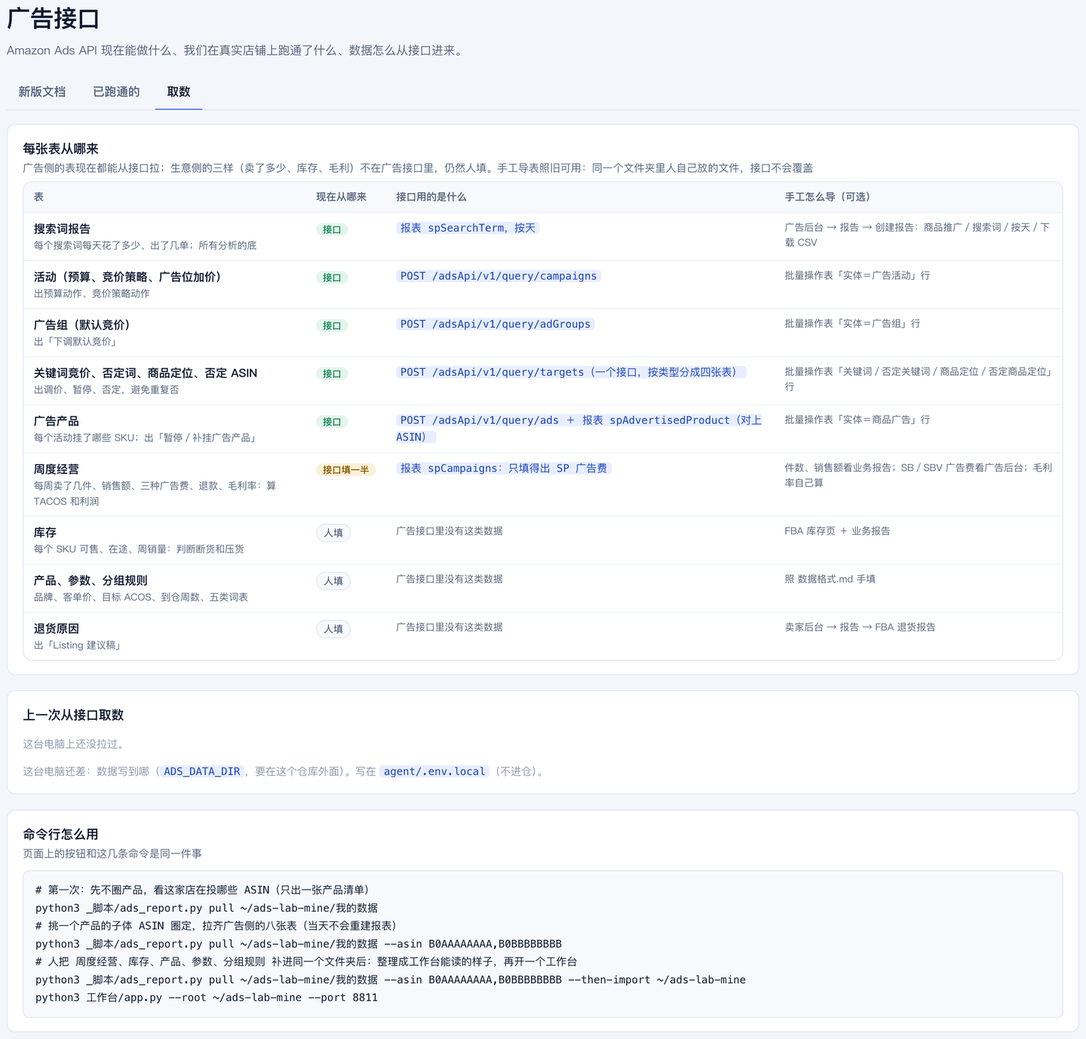
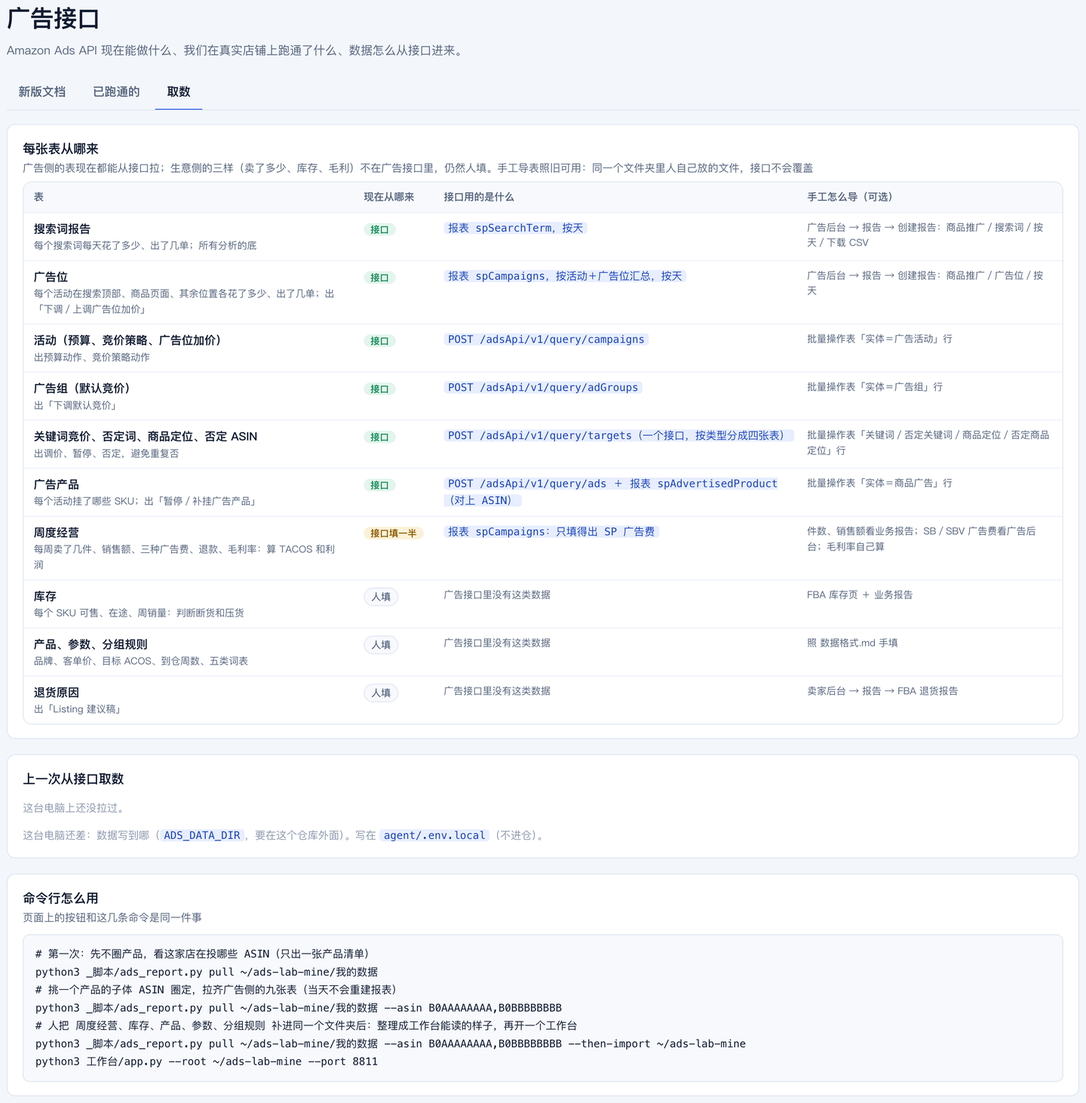
广告位: 接上按广告位汇总的报表, 出「下调／上调广告位加价」 @Claude Code
- 取数多拉一份报表（spCampaigns 按 活动＋广告位 汇总）→ 广告位.csv；导入脚本认这张表
- 规则：加价折到出价上算，和竞价共用单次调幅。有加价、点击够数却 0 单或超盈亏线 → 下调（到 0 为止）；
  ACOS 不到目标六成且订单够数 → 上调（有上限）。没有报表时照旧只提醒「广告位待补数据」
- 出了广告位动作，验证器多一条；批量上传表多 Placement、Percentage 两列；
  接口请求把活动所有位置的加价一起带上（只预演，没真实发过）
- 口径新增两个暂定值；技能包 ads-bid-budget 同步；取数缓存按份算
- 仓库自带演示数据没有广告位报表，演示动作数不变（89 条、验证器 9 条）
- 2026-11-12 美国站真实实测四份报表走通（只读）；测试 107 通过，评测 56/56

diff --git a/实操手册.html b/实操手册.html
@@ -55,7 +55,9 @@ img.shot{display:block;width:100%;border:1px solid var(--line);border-radius:8px
 <tr><td>库存.csv</td><td>手填，每行一个 SKU：可售、上周销量（FBA 库存页、业务报告）</td><td>必需</td></tr>
 <tr><td>产品.json、参数.json、分组规则.json</td><td>第 11、12 步做</td><td>必需</td></tr>
 <tr><td>活动.csv／关键词竞价.csv／否定词.csv／广告产品.csv／退货.csv</td><td>广告后台批量操作导出、广告产品报告、退货报告；没有就少几类动作</td><td>可选</td></tr>
-<tr><td>广告组.csv／商品定位.csv／否定ASIN.csv，以及 活动.csv 里的竞价策略、广告位加价列</td><td>广告后台 → 批量操作 → 下载批量表；没有就出不了「改竞价策略」「下调默认竞价」「ASIN／类目定位调价」「否定 ASIN」，「广告活动」页里对应那一块会写「没给这张表」</td><td>可选</td></tr></table><div class="say"><span class="lab">对 Codex 说</span><button onclick="cp(this)">复制</button><pre>看一下 我的数据/ 里的文件：每个多少行、有哪些列；搜索词报告的时间从哪天到哪天、涉及几个广告活动。先别分析，也别改文件。</pre></div><p class="see"><span class="lab">应该看到</span>行数、列名、时间范围。<b>先确认周期完整</b>：至少 3 周，建议 4 周以上；最近 3 天归因没满，订单会偏少。</p><details><summary>卡住了</summary><p>近 4 周点击不到 300 次：换一个量大的产品。搜索词报告只有汇总没有按天：重新导一份「每日」的。</p></details></div></section><section class="step"><div class="no">11</div><div class="c"><h3>你亲手填：目标与约束<span class="tm">约 10 分钟</span></h3><p>必须人填。AI 看得到报表，看不到你为什么这么投。</p><div class="say"><span class="lab">对 Codex 说</span><button onclick="cp(this)">复制</button><pre>一项一项问我，我答你记，写成 我的数据/参数.json 和 我的数据/产品.json（格式照 我的数据-示例/）：目标 ACOS 是多少；广告前毛利率（盈亏线）是多少；现在是新品期、成长期还是成熟期；补货到仓还要几周；哪个活动是精确、哪个是词组、哪个是广泛；品牌名；客单价。另外把我这个品的「不能动的」记一页纸：哪些词是防守词、哪些活动是有意为之。</pre></div><p class="see"><span class="lab">应该看到</span>两个 json 加一页纸，全是你的话。</p><details><summary>卡住了</summary><p>不知道盈亏线：售价减去采购、头程、佣金、FBA 费，再除以售价。分不清哪个活动是精确：看报表「匹配类型」一列，哪个活动全是精确匹配。</p></details></div></section><section class="step"><div class="no">12</div><div class="c"><h3>写你这个品类的分组规则<span class="tm">约 20 分钟</span></h3><p>每个品类做一次。示例的规则在 <code>分组规则.json</code>，五类词表都是正则，<b>不许照抄——那是另一个品类的词</b>。</p><div class="say"><span class="lab">对 Codex 说</span><button onclick="cp(this)">复制</button><pre>照 ~/ads-lab/分组规则.json 的结构给我的品类做一份，存到 我的数据/分组规则.json。先把我搜索词报告里花费前 80 的搜索词读一遍，给我一份候选：哪些是核心大词、哪些是属性长尾、哪些是竞品品牌、哪些是跑偏（需求不同）、哪些是泛词（没有购买意图）。每一类列 10 个例子让我确认，我改完你再写正则。写完用前 80 个词试分一遍，把拿不准的 10 个列出来让我定。</pre></div><p class="see"><span class="lab">应该看到</span>它停下来让你定；试分后「拿不准的 10 个词」由你一条条判，判完它改规则再试。</p><details><summary>卡住了</summary><p>它想用示例的词表：叫停。它把没有购买意图的词也归进核心词：让它先解释 INTENT 这一类是干什么的，再改。</p></details></div></section><section class="step"><div class="no">13</div><div class="c"><h3>导入，起一个你自己的工作台<span class="tm">约 10 分钟</span></h3><div class="say"><span class="lab">对 Codex 说</span><button onclick="cp(this)">复制</button><pre>用 python3 _脚本/import_my_data.py 我的数据 ~/ads-lab-mine 导入，把它打印的「列对应」「导入了多少」「窗口」原样念给我。然后用 python3 工作台/app.py --root ~/ads-lab-mine --port 8811 再起一个工作台，告诉我地址。示例那个 8810 不要关。</pre></div><p class="see"><span class="lab">应该看到</span>列对应表里八个必需列都对上了；周度经营几周、库存几个 SKU、可选表各多少条；窗口是报表最后 28 天。浏览器开 <code>http://localhost:8811</code>，看到的是你自己的店名和产品名，状态「待处理」。「设置」页的「数据从哪来」里，你给了的表是绿色「已有」。</p><details><summary>卡住了</summary><p>认不出列：按它打印出来的表头改列名（中文）再来。参数里的活动名不在报表里：照它列出的名字改，一个字都不能差。报「至少要 3 周」：回后台重导。</p></details></div></section><section class="step"><div class="no">14</div><div class="c"><h3>跑第一圈，先看大盘，再改规则<span class="tm">约 10 分钟</span></h3><div class="say do"><span class="lab">在工作台上做</span><pre>在 8811 页面点「跑第一圈」。回到首页后先看「这周的结论」，再到「广告活动」页扫一遍每个活动的花费和 ACOS。</pre></div><div class="say"><span class="lab">对 Codex 说</span><button onclick="cp(this)">复制</button><pre>读 ~/ads-lab-mine/广告闭环/输出/数字.json，把三件事念给我听：分组账（每组花费、占比、ACOS）；同一个词被几个活动同时买的花费占比；头部四个词各花在哪些活动。然后打开 分组明细-近14天-请人工纠错.csv，把花费前 30 的词和它的分组列给我看，我来挑分错的。</pre></div><p class="see"><span class="lab">应该看到</span>你逐条判分错的词，让它改 我的数据/分组规则.json，重新导入到同一个目录，在首页「改目标」里点「原样再触发」再「跑一圈」：第 2 格写「输入变了（规则版本…）→ 重跑」。分组对了，结论和原因才可信。</p><details><summary>卡住了</summary><p>「原因」页最下面「分析时还缺的数据」很长：正常，可选表没给的部分它都会写成缺。</p></details></div></section><section class="step"><div class="no">15</div><div class="c"><h3>摆选项，你来选<span class="tm">约 5 分钟</span></h3><div class="say"><span class="lab">对 Codex 说</span><button onclick="cp(this)">复制</button><pre>基于 ~/ads-lab-mine 这一轮的事实和我的目标与约束，给 3–5 个可选动作。每个写清：什么时候该选、代价折成钱是多少、可逆吗。不要替我选。</pre></div><div class="say do"><span class="lab">在工作台上做</span><pre>你口头选，并说一句为什么。到「原因」页的对策列，勾出你的取舍，点「按这个取舍重新生成」，首页会出现「待重跑」，点「跑一圈」。</pre></div><p class="see"><span class="lab">应该看到</span>第 2 格写「输入变了（取舍项…）」；「行动」里只剩你选的那几条对策的动作。</p></div></section><section class="step"><div class="no">16</div><div class="c"><h3>当一回运营，按通道导出<span class="tm">约 10 分钟</span></h3><div class="say do"><span class="lab">在工作台上做</span><pre>在「行动」的「待你决定」里一类一类过：信得过的点「按建议全部通过」，拿不准的逐条看，驳回写理由。做完到「待执行」，点右上角「导出全部已通过」；Listing 建议稿和到仓日查证，各自在它那一类里导出清单。</pre></div><div class="say"><span class="lab">对 Codex 说</span><button onclick="cp(this)">复制</button><pre>打开我导出的批量上传表，按 Entity 分成三段念给我：Product Ad（SKU、State）、Keyword／Negative Keyword（Keyword Text、Match Type、Bid、State）、Campaign（Daily Budget）。核对每一行的 Campaign ID 和 Ad Group ID 都不为空；哪一行为空就标出来——那是我导入时缺了对应的表。</pre></div><p class="see"><span class="lab">应该看到</span>三段清单，ID 齐全。<b>上传广告后台这一步，永远是人做</b>：广告后台 → 批量操作 → 上传。传完回到「待执行」，把上传过的动作点「标为已执行」。</p><details><summary>卡住了</summary><p>清单里有一条你后来觉得不对：在「待执行」里点「撤回」，它就不会进下一次导出。</p></details></div></section><section class="step"><div class="no">17</div><div class="c"><h3>到日子，人来复盘<span class="tm">约 10 分钟</span></h3><p>这一步没有 AI 替你判断。到复盘日，首页会出现一条「到期看结果」：</p><div class="say do"><span class="lab">在工作台上做</span><pre>1. 从后台重新导一份包含最近一周的搜索词报告，覆盖 我的数据/搜索词报告.csv；周度经营.csv 加一行；库存.csv 更新可售和上周销量。
+<tr><td>广告组.csv／商品定位.csv／否定ASIN.csv，以及 活动.csv 里的竞价策略、广告位加价列</td><td>广告后台 → 批量操作 → 下载批量表；没有就出不了「改竞价策略」「下调默认竞价」「ASIN／类目定位调价」「否定 ASIN」，「广告活动」页里对应那一块会写「没给这张表」</td><td>可选</td></tr>
+<tr><td>广告位.csv</td><td>广告后台 → 报告 → 商品推广／广告位／按天；没有就出不了「下调／上调广告位加价」，只提醒「广告位待补数据」</td><td>可选</td></tr>
+<tr><td colspan="3">广告侧的这些表（搜索词报告、广告位、活动、广告组、关键词竞价、否定词、广告产品、商品定位、否定 ASIN）也可以不手工导，直接从广告接口拉：见 数据格式.md 开头，或页面「广告接口 → 取数」。周度经营、库存、产品、参数、分组规则仍然手填。</td></tr></table><div class="say"><span class="lab">对 Codex 说</span><button onclick="cp(this)">复制</button><pre>看一下 我的数据/ 里的文件：每个多少行、有哪些列；搜索词报告的时间从哪天到哪天、涉及几个广告活动。先别分析，也别改文件。</pre></div><p class="see"><span class="lab">应该看到</span>行数、列名、时间范围。<b>先确认周期完整</b>：至少 3 周，建议 4 周以上；最近 3 天归因没满，订单会偏少。</p><details><summary>卡住了</summary><p>近 4 周点击不到 300 次：换一个量大的产品。搜索词报告只有汇总没有按天：重新导一份「每日」的。</p></details></div></section><section class="step"><div class="no">11</div><div class="c"><h3>你亲手填：目标与约束<span class="tm">约 10 分钟</span></h3><p>必须人填。AI 看得到报表，看不到你为什么这么投。</p><div class="say"><span class="lab">对 Codex 说</span><button onclick="cp(this)">复制</button><pre>一项一项问我，我答你记，写成 我的数据/参数.json 和 我的数据/产品.json（格式照 我的数据-示例/）：目标 ACOS 是多少；广告前毛利率（盈亏线）是多少；现在是新品期、成长期还是成熟期；补货到仓还要几周；哪个活动是精确、哪个是词组、哪个是广泛；品牌名；客单价。另外把我这个品的「不能动的」记一页纸：哪些词是防守词、哪些活动是有意为之。</pre></div><p class="see"><span class="lab">应该看到</span>两个 json 加一页纸，全是你的话。</p><details><summary>卡住了</summary><p>不知道盈亏线：售价减去采购、头程、佣金、FBA 费，再除以售价。分不清哪个活动是精确：看报表「匹配类型」一列，哪个活动全是精确匹配。</p></details></div></section><section class="step"><div class="no">12</div><div class="c"><h3>写你这个品类的分组规则<span class="tm">约 20 分钟</span></h3><p>每个品类做一次。示例的规则在 <code>分组规则.json</code>，五类词表都是正则，<b>不许照抄——那是另一个品类的词</b>。</p><div class="say"><span class="lab">对 Codex 说</span><button onclick="cp(this)">复制</button><pre>照 ~/ads-lab/分组规则.json 的结构给我的品类做一份，存到 我的数据/分组规则.json。先把我搜索词报告里花费前 80 的搜索词读一遍，给我一份候选：哪些是核心大词、哪些是属性长尾、哪些是竞品品牌、哪些是跑偏（需求不同）、哪些是泛词（没有购买意图）。每一类列 10 个例子让我确认，我改完你再写正则。写完用前 80 个词试分一遍，把拿不准的 10 个列出来让我定。</pre></div><p class="see"><span class="lab">应该看到</span>它停下来让你定；试分后「拿不准的 10 个词」由你一条条判，判完它改规则再试。</p><details><summary>卡住了</summary><p>它想用示例的词表：叫停。它把没有购买意图的词也归进核心词：让它先解释 INTENT 这一类是干什么的，再改。</p></details></div></section><section class="step"><div class="no">13</div><div class="c"><h3>导入，起一个你自己的工作台<span class="tm">约 10 分钟</span></h3><div class="say"><span class="lab">对 Codex 说</span><button onclick="cp(this)">复制</button><pre>用 python3 _脚本/import_my_data.py 我的数据 ~/ads-lab-mine 导入，把它打印的「列对应」「导入了多少」「窗口」原样念给我。然后用 python3 工作台/app.py --root ~/ads-lab-mine --port 8811 再起一个工作台，告诉我地址。示例那个 8810 不要关。</pre></div><p class="see"><span class="lab">应该看到</span>列对应表里八个必需列都对上了；周度经营几周、库存几个 SKU、可选表各多少条；窗口是报表最后 28 天。浏览器开 <code>http://localhost:8811</code>，看到的是你自己的店名和产品名，状态「待处理」。「设置」页的「数据从哪来」里，你给了的表是绿色「已有」。</p><details><summary>卡住了</summary><p>认不出列：按它打印出来的表头改列名（中文）再来。参数里的活动名不在报表里：照它列出的名字改，一个字都不能差。报「至少要 3 周」：回后台重导。</p></details></div></section><section class="step"><div class="no">14</div><div class="c"><h3>跑第一圈，先看大盘，再改规则<span class="tm">约 10 分钟</span></h3><div class="say do"><span class="lab">在工作台上做</span><pre>在 8811 页面点「跑第一圈」。回到首页后先看「这周的结论」，再到「广告活动」页扫一遍每个活动的花费和 ACOS。</pre></div><div class="say"><span class="lab">对 Codex 说</span><button onclick="cp(this)">复制</button><pre>读 ~/ads-lab-mine/广告闭环/输出/数字.json，把三件事念给我听：分组账（每组花费、占比、ACOS）；同一个词被几个活动同时买的花费占比；头部四个词各花在哪些活动。然后打开 分组明细-近14天-请人工纠错.csv，把花费前 30 的词和它的分组列给我看，我来挑分错的。</pre></div><p class="see"><span class="lab">应该看到</span>你逐条判分错的词，让它改 我的数据/分组规则.json，重新导入到同一个目录，在首页「改目标」里点「原样再触发」再「跑一圈」：第 2 格写「输入变了（规则版本…）→ 重跑」。分组对了，结论和原因才可信。</p><details><summary>卡住了</summary><p>「原因」页最下面「分析时还缺的数据」很长：正常，可选表没给的部分它都会写成缺。</p></details></div></section><section class="step"><div class="no">15</div><div class="c"><h3>摆选项，你来选<span class="tm">约 5 分钟</span></h3><div class="say"><span class="lab">对 Codex 说</span><button onclick="cp(this)">复制</button><pre>基于 ~/ads-lab-mine 这一轮的事实和我的目标与约束，给 3–5 个可选动作。每个写清：什么时候该选、代价折成钱是多少、可逆吗。不要替我选。</pre></div><div class="say do"><span class="lab">在工作台上做</span><pre>你口头选，并说一句为什么。到「原因」页的对策列，勾出你的取舍，点「按这个取舍重新生成」，首页会出现「待重跑」，点「跑一圈」。</pre></div><p class="see"><span class="lab">应该看到</span>第 2 格写「输入变了（取舍项…）」；「行动」里只剩你选的那几条对策的动作。</p></div></section><section class="step"><div class="no">16</div><div class="c"><h3>当一回运营，按通道导出<span class="tm">约 10 分钟</span></h3><div class="say do"><span class="lab">在工作台上做</span><pre>在「行动」的「待你决定」里一类一类过：信得过的点「按建议全部通过」，拿不准的逐条看，驳回写理由。做完到「待执行」，点右上角「导出全部已通过」；Listing 建议稿和到仓日查证，各自在它那一类里导出清单。</pre></div><div class="say"><span class="lab">对 Codex 说</span><button onclick="cp(this)">复制</button><pre>打开我导出的批量上传表，按 Entity 分成三段念给我：Product Ad（SKU、State）、Keyword／Negative Keyword（Keyword Text、Match Type、Bid、State）、Campaign（Daily Budget）。核对每一行的 Campaign ID 和 Ad Group ID 都不为空；哪一行为空就标出来——那是我导入时缺了对应的表。</pre></div><p class="see"><span class="lab">应该看到</span>三段清单，ID 齐全。<b>上传广告后台这一步，永远是人做</b>：广告后台 → 批量操作 → 上传。传完回到「待执行」，把上传过的动作点「标为已执行」。</p><details><summary>卡住了</summary><p>清单里有一条你后来觉得不对：在「待执行」里点「撤回」，它就不会进下一次导出。</p></details></div></section><section class="step"><div class="no">17</div><div class="c"><h3>到日子，人来复盘<span class="tm">约 10 分钟</span></h3><p>这一步没有 AI 替你判断。到复盘日，首页会出现一条「到期看结果」：</p><div class="say do"><span class="lab">在工作台上做</span><pre>1. 从后台重新导一份包含最近一周的搜索词报告，覆盖 我的数据/搜索词报告.csv；周度经营.csv 加一行；库存.csv 更新可售和上周销量。
 2. 重新导入到同一个目录，首页「改目标」里点「原样再触发」→「跑一圈」。
 3. 到「行动」的「等验证」，把结果对得上的动作点「下周已验证」。</pre></div><p class="see"><span class="lab">应该看到</span>第 1 格读回了你「已执行」的动作；第 2 格写「输入变了（数据窗口：…）→ 重跑」；首页的指标卡和结论换成新一周的数。每一类行动详情里「怎么算成功」写的那几样，你逐项对：到仓日、补挂款的转化、精确组占比、CPC、竞品词 ACOS。</p><div class="say"><span class="lab">对 Codex 说</span><button onclick="cp(this)">复制</button><pre>把 ~/ads-lab-mine/广告闭环/行动卡/ 里上一张卡的第 9 格，和这一圈 输出/数字.json 里对应的数逐项对照，列成表：指标、当时说要看的线、现在的值、过没过。过不了的，先问是动作没执行、执行了没效、还是外部变了，分开写。</pre></div><p class="see"><span class="lab">应该看到</span>一张对照表。<b>跑过两圈、第 9 格逐项对过、有验证结论的，才算数字员工。</b></p></div></section>
 

diff --git a/tests/test_ads_report.py b/tests/test_ads_report.py
@@ -45,7 +45,9 @@ def world():
     by = {}
     for t in term: by[(t["date"], t["campaignId"], t["campaignName"])] = by.get((t["date"], t["campaignId"], t["campaignName"]), 0) + t["cost"]
     camp = [{"date": d, "campaignId": c, "campaignName": n, "cost": round(v, 2)} for (d, c, n), v in by.items()]
-    return {"campaigns": camps, "adGroups": groups, "targets": T, "ads": ads, "搜索词": term, "广告产品": adp, "活动": camp, "end": days[-1], "cid": cid}
+    place = [{"date": d, "campaignId": c, "campaignName": n, "placementClassification": pc, "impressions": 100, "clicks": 10, "cost": round(v * share, 2), "sales7d": round(v * share * 3, 2), "purchases7d": 1}
+             for (d, c, n), v in by.items() for pc, share in (("Top of Search on-Amazon", 0.5), ("Detail Page on-Amazon", 0.3), ("Other on-Amazon", 0.2))]
+    return {"campaigns": camps, "adGroups": groups, "targets": T, "ads": ads, "搜索词": term, "广告产品": adp, "活动": camp, "广告位": place, "end": days[-1], "cid": cid}
 
 
 W = world()
@@ -62,11 +64,12 @@ class Fake:
         method, path = args[1], args[2]; body = json.loads(args[args.index("--body") + 1]) if "--body" in args else None
         if path.endswith("/v2/profiles"): return [{"profileId": 9, "countryCode": "US", "currencyCode": "USD", "accountInfo": {"type": "seller"}}]
         if path.endswith("/reporting/reports") and method == "POST":
-            t = body["configuration"]["reportTypeId"]; rid = {"spSearchTerm": "11111111-1111-4111-8111-111111111111", "spAdvertisedProduct": "22222222-2222-4222-8222-222222222222", "spCampaigns": "33333333-3333-4333-8333-333333333333"}[t]
+            t = body["configuration"]["reportTypeId"] + ("/placement" if "campaignPlacement" in body["configuration"]["groupBy"] else "")
+            rid = {"spSearchTerm": "11111111-1111-4111-8111-111111111111", "spAdvertisedProduct": "22222222-2222-4222-8222-222222222222", "spCampaigns": "33333333-3333-4333-8333-333333333333", "spCampaigns/placement": "44444444-4444-4444-8444-444444444444"}[t]
             if self.dup: raise A.AdsError("接口回了业务错误：The Request is a duplicate of : " + rid)
             return {"reportId": rid, "status": "PENDING"}
         if "/reporting/reports/" in path and method == "GET":
-            self.polls += 1; rid = path.rsplit("/", 1)[1]; name = {"1": "搜索词", "2": "广告产品", "3": "活动"}[rid[0]]
+            self.polls += 1; rid = path.rsplit("/", 1)[1]; name = {"1": "搜索词", "2": "广告产品", "3": "活动", "4": "广告位"}[rid[0]]
             if self.fail == name: return {"reportId": rid, "status": "FAILED", "failureReason": "报表类型不支持这个列"}
             if self.polls <= self.slow: return {"reportId": rid, "status": "PROCESSING"}
             return {"reportId": rid, "status": "COMPLETED", "url": "https://example.invalid/" + name}
@@ -97,7 +100,7 @@ class 取数(unittest.TestCase):
     def test_没圈产品_只出产品清单_不读结构(self):
         d, f, _ = pull(self.out)
         self.assertFalse(d["ok"]); self.assertFalse(d["圈定"]); self.assertEqual([x["名"] for x in d["文件"]], ["接口-产品清单.csv"])
-        self.assertEqual(f.n("POST", "/reporting/reports"), 3); self.assertEqual(f.n("POST", "/query/"), 0); self.assertEqual(f.writes(), [])
+        self.assertEqual(f.n("POST", "/reporting/reports"), 4); self.assertEqual(f.n("POST", "/query/"), 0); self.assertEqual(f.writes(), [])
         h = json.loads(f.log[3][f.log[3].index("--headers") + 1]); self.assertEqual(h["Content-Type"], R.CT); self.assertEqual(h["Amazon-Advertising-API-Scope"], "9")
         self.assertIn("/proxy/na/reporting/reports", f.log[3][2]); self.assertNotIn("adsApi", f.log[3][2])
 
@@ -108,7 +111,8 @@ class 取数(unittest.TestCase):
         self.assertTrue(d["ok"], d["步骤"]); got = {x["名"]: x["行数"] for x in d["文件"] if x["来源"] == "接口"}
         for name, src in (("活动.csv", "活动.csv"), ("广告组.csv", "广告组.csv"), ("关键词竞价.csv", "关键词竞价.csv"), ("否定词.csv", "否定词.csv"), ("广告产品.csv", "广告产品.csv"), ("商品定位.csv", "商品定位.csv"), ("否定ASIN.csv", "否定ASIN.csv")):
             self.assertEqual(got[name], len(rd(src)) if name != "活动.csv" else got[name], name)
-        self.assertEqual(got["搜索词报告.csv"], len(W["搜索词"]))
+        self.assertEqual(got["搜索词报告.csv"], len(W["搜索词"])); self.assertEqual(got["广告位.csv"], len(W["广告位"]))
+        self.assertEqual({r[2] for r in self.rows("广告位.csv")[1:]}, {"搜索顶部", "商品页面", "其余位置"})
         kw = self.rows("关键词竞价.csv"); self.assertNotIn("已归档的词", [r[1] for r in kw]); self.assertEqual(kw[0], ["广告活动", "关键词", "匹配类型", "竞价", "状态"])
         tg = {r[2] for r in self.rows("商品定位.csv")[1:]}; self.assertTrue({"close-match", "loose-match"} & tg)
         act = {r[0]: r for r in self.rows("活动.csv")[1:]}; self.assertEqual((act["自动-主"][2], act["自动-主"][4]), ("自动", "50")); self.assertEqual(act["词组主干"][1], "188.0")
@@ -125,6 +129,8 @@ class 取数(unittest.TestCase):
         self.assertEqual(len(x), len(y))
         for c in ("广告花费", "广告销售额", "广告点击量", "广告订单量", "广告曝光量"): self.assertAlmostEqual(float(x[c].sum()), float(y[c].sum()), places=2, msg=c)
         self.assertEqual(sorted(x["匹配类型"].unique()), sorted(y["匹配类型"].unique()))
+        pl = pd.read_pickle(f"{a}/_原始拉取/报表-adPlacementReport-0.pkl"); self.assertEqual(sorted(pl["广告位"].unique()), ["placementProductPage", "placementRestOfSearch", "placementTop"])
+        self.assertAlmostEqual(float(pl["广告花费"].sum()), float(x["广告花费"].sum()), delta=len(pl) * 0.01); self.assertFalse(os.path.exists(f"{b}/_原始拉取/报表-adPlacementReport-0.pkl"))   # 手工那份没放广告位表
         for name in ("本父体-spKeyword.json", "本父体-spNeKeyword.json", "本父体-spGroup.json", "本父体-spTarget.json", "本父体-spNeTarget.json", "基础-spAdProduct-全店.json"):
             ja, jb = (R.jread(f"{d}/_原始拉取/{name}") for d in (a, b)); self.assertEqual(len(ja), len(jb), name)
         ka, kb = (sorted((k["keywordText"], k["matchType"], k["bid"], k["state"]) for k in R.jread(f"{d}/_原始拉取/本父体-spKeyword.json")) for d in (a, b)); self.assertEqual(ka, kb)
@@ -140,9 +146,9 @@ class 取数(unittest.TestCase):
 
     def test_报表没生成完_先停_下次接着取不重建(self):
         f = Fake(slow=99); d, _, root = pull(self.out, f, like="主干", wait=120, every=60)
-        self.assertFalse(d["ok"]); self.assertEqual(len(d["还在生成"]), 3); self.assertTrue(os.path.exists(os.path.join(self.out, ".接口任务.json"))); self.assertEqual(f.n("POST", "/reporting/reports"), 3)
+        self.assertFalse(d["ok"]); self.assertEqual(len(d["还在生成"]), 4); self.assertTrue(os.path.exists(os.path.join(self.out, ".接口任务.json"))); self.assertEqual(f.n("POST", "/reporting/reports"), 4)
         f2 = Fake(); d2, _, _ = pull(self.out, f2, like="主干")
-        self.assertTrue(d2["ok"], d2["步骤"]); self.assertEqual(f2.n("POST", "/reporting/reports"), 0); self.assertEqual(f2.n("GET", "/reporting/reports/"), 3); self.assertFalse(os.path.exists(os.path.join(self.out, ".接口任务.json")))
+        self.assertTrue(d2["ok"], d2["步骤"]); self.assertEqual(f2.n("POST", "/reporting/reports"), 0); self.assertEqual(f2.n("GET", "/reporting/reports/"), 4); self.assertFalse(os.path.exists(os.path.join(self.out, ".接口任务.json")))
 
     def test_平台说这份报表刚建过_就用已有的那一份(self):
         d, f, _ = pull(self.out, Fake(dup=True), like="主干"); self.assertTrue(d["ok"], d["步骤"])
@@ -162,6 +168,14 @@ class 取数(unittest.TestCase):
     def test_日期范围_最多31天_太早的不让拉(self):
         self.assertEqual(R.window(90, "2026-08-31", datetime.date(2026, 9, 1)), ("2026-08-01", "2026-08-31"))
         with self.assertRaises(A.AdsError): R.window(31, "2026-05-01", datetime.date(2026, 9, 1))
+
+    def test_后来多要一份报表_只建缺的那份(self):
+        import gzip
+        pull(self.out); cf = os.path.join(self.out, ".接口报表.json.gz")
+        with gzip.open(cf, "rt", encoding="utf-8") as fh: c = json.load(fh)
+        del c["R"]["广告位"]
+        with gzip.open(cf, "wt", encoding="utf-8") as fh: json.dump(c, fh, ensure_ascii=False)     # 模拟：昨天版本的脚本只缓存了三份
+        d, f, _ = pull(self.out, like="主干"); self.assertTrue(d["ok"], d["步骤"]); self.assertEqual(f.n("POST", "/reporting/reports"), 1)
 
 
 class 每周自动取数(unittest.TestCase):

diff --git a/tests/test_placement.py b/tests/test_placement.py
@@ -1,0 +1,88 @@
+# -*- coding: utf-8 -*-
+"""广告位加价规则的测试：在仓库副本里放一张造出来的广告位报表，跑流水线，看出的动作对不对。只写副本，不动仓库。
+仓库自带的演示数据里没有广告位报表（不编数据），所以演示仍然只提醒「广告位待补数据」——那一头由 test_pipeline_regress 守着。
+用法：python3 -m unittest tests.test_placement -v"""
+import os, subprocess, sys, tempfile, unittest
+
+sys.path.insert(0, os.path.dirname(os.path.abspath(__file__)))
+from test_biz import REPO, SCENE, copy_repo, jread, jwrite
+
+# (活动, 广告位, 点击, 订单, 花费, 销售额)：近 14 天合计
+CASES = [("自动-主", "placementTop", 40, 0, 60.0, 0.0),                 # 现在加价 50%，40 次点击 0 单 → 下调
+         ("词组拓词", "placementRestOfSearch", 30, 2, 90.0, 100.0),       # 现在加价 30%，ACOS 90% 超盈亏线 → 下调
+         ("词组主干", "placementProductPage", 25, 1, 50.0, 60.0),         # 现在加价 2%，ACOS 83% → 降到 0
+         ("词组主干", "placementTop", 30, 6, 30.0, 300.0),                # 现在没加价，ACOS 10%、6 单 → 上调到 10%
+         ("自动-主", "placementProductPage", 12, 0, 20.0, 0.0),           # 点击不够数 → 不动
+         ("词组拓词", "placementTop", 50, 0, 80.0, 0.0)]                  # 0 单但现在没加价：降不了，不归这条管 → 不动
+
+
+def run(with_report=True, patch=None):
+    import pandas as pd
+    d = tempfile.mkdtemp(prefix="ads-pl-"); copy_repo(d); P = jread(f"{d}/参数.json"); P.update(SCENE["v1"]); jwrite(f"{d}/参数.json", P)
+    for f in ("读回状态.json",):
+        if os.path.exists(f"{d}/广告闭环/输出/{f}"): os.remove(f"{d}/广告闭环/输出/{f}")
+    if with_report:
+        day = P["窗口近"][1]; cid = {c["name"]: c["campaignId"] for c in jread(f"{d}/_原始拉取/本父体-活动.json")}
+        pd.DataFrame([{"日期": pd.Timestamp(day), "广告活动": c, "广告活动ID": cid[c], "广告位": k, "广告花费": sp, "广告曝光量": ck * 50, "广告点击量": ck, "广告订单量": od, "广告销售额": sl} for c, k, ck, od, sp, sl in CASES]
+                     ).to_pickle(f"{d}/_原始拉取/报表-adPlacementReport-0.pkl")
+    if patch: patch(d)
+    r = subprocess.run([sys.executable, f"{d}/_脚本/pipeline.py"], capture_output=True, text=True, env=dict(os.environ, ADS_ROOT=d, PYTHONDONTWRITEBYTECODE="1"))
+    return d, r
+
+
+class 广告位加价(unittest.TestCase):
+    @classmethod
+    def setUpClass(cls):
+        cls.d, r = run(); assert r.returncode == 0, r.stderr[-800:]
+        cls.rows = jread(f"{cls.d}/广告闭环/输出/动作清单.json"); cls.pl = {(x["广告活动"], x["对象"]): x for x in cls.rows if "广告位加价" in x["类型"]}; cls.checks = jread(f"{cls.d}/广告闭环/输出/验证器.json")
+        cls.d0, r0 = run(False); assert r0.returncode == 0, r0.stderr[-800:]; cls.rows0 = jread(f"{cls.d0}/广告闭环/输出/动作清单.json")
+
+    def test_没有报表_只提醒待补数据_验证器还是九条(self):
+        self.assertEqual(sum(1 for x in self.rows0 if x["类型"] == "广告位待补数据"), 1); self.assertFalse([x for x in self.rows0 if "广告位加价" in x["类型"]])
+        self.assertEqual(len(jread(f"{self.d0}/广告闭环/输出/验证器.json")), 9)
+
+    def test_有报表_不再提醒待补_出四条调整(self):
+        self.assertFalse([x for x in self.rows if x["类型"] == "广告位待补数据"])
+        self.assertEqual(set(self.pl), {("自动-主", "搜索顶部"), ("词组拓词", "其余位置"), ("词组主干", "商品页面"), ("词组主干", "搜索顶部")})
+        self.assertEqual(len(self.rows), len(self.rows0) - 1 + 4)                       # 别的动作一条不多一条不少
+
+    def test_下调_折到出价上最多降百分之十五_降到零为止(self):
+        a = self.pl[("自动-主", "搜索顶部")]; self.assertEqual((a["类型"], a["现值"], a["新值"]), ("下调广告位加价", "50%", "28%"))        # 1.5 × 0.85 = 1.275 → 往安全的一侧取整 28%
+        b = self.pl[("词组拓词", "其余位置")]; self.assertEqual((b["现值"], b["新值"]), ("30%", "11%"))                                  # 1.3 × 0.85 = 1.105 → 11%
+        c = self.pl[("词组主干", "商品页面")]; self.assertEqual((c["现值"], c["新值"]), ("2%", "0%"))
+        for x in (a, b, c): self.assertEqual(x["取舍项"], "B"); self.assertIn("近 14 天这个位置", x["依据"])
+        self.assertIn("一单没出", a["依据"]); self.assertIn("超盈亏线", b["依据"])
+
+    def test_上调_从没加价提到百分之十(self):
+        u = self.pl[("词组主干", "搜索顶部")]; self.assertEqual((u["类型"], u["现值"], u["新值"]), ("上调广告位加价", "0%", "10%"))
+
+    def test_验证器多一条_并且通过(self):
+        self.assertEqual(len(self.checks), 10); self.assertTrue(all(c["通过"] for c in self.checks)); self.assertIn("广告位加价单次调整", self.checks[-1]["检查"])
+
+    def test_上调有上限(self):
+        def patch(d):
+            cs = jread(f"{d}/_原始拉取/本父体-spCampaign.json")
+            for c in cs:
+                if c["name"] == "词组主干": c["placementAdjustments"] = [{"placement": "placementTop", "percentage": 95}]
+            jwrite(f"{d}/_原始拉取/本父体-spCampaign.json", cs)
+        d, r = run(patch=patch); self.assertEqual(r.returncode, 0, r.stderr[-600:])
+        u = next(x for x in jread(f"{d}/广告闭环/输出/动作清单.json") if x["类型"] == "上调广告位加价"); self.assertEqual((u["现值"], u["新值"]), ("95%", "100%"))
+
+    def test_批量上传表_广告位那两列填上了(self):
+        sys.path.insert(0, os.path.join(REPO, "_脚本")); import fields as FD
+        a = self.pl[("自动-主", "搜索顶部")]; act = {"type": a["类型"], "campaign": a["广告活动"], "object": a["对象"], "old": a["现值"], "new": a["新值"], "no": "X-1", "why": a["依据"]}
+        f = FD.Mapper(self.d, jread(f"{self.d}/参数.json")).enrich(act); row = dict(zip(FD.BULK_COLS, FD.bulk_row(act, f)))
+        self.assertEqual((row["Entity"], row["Operation"], row["Placement"], row["Percentage"]), ("Bidding Adjustment", "update", "Placement Top", "28"))
+        self.assertTrue(row["Campaign ID"]); self.assertEqual((row["Ad Group ID"], row["Bid"], row["State"]), ("", "", ""))
+        self.assertEqual(f["通道"], "Amazon Ads API")
+
+    def test_接口预演_带上这个活动其余位置的加价(self):
+        import sqlite3
+        sys.path.insert(0, os.path.join(REPO, "_脚本")); import ads_api as A
+        a = self.pl[("自动-主", "搜索顶部")]; f = {"Campaign ID": "C1", "广告位": a["对象"], "广告位现值": {"TOP_OF_SEARCH": 50}}
+        route, body, miss = A.build({"type": a["类型"], "old": a["现值"], "new": a["新值"], "object": a["对象"]}, f)
+        self.assertEqual((route, miss), ("update/campaigns", [])); self.assertEqual(body["campaigns"][0]["optimizations"]["bidSettings"]["bidAdjustments"]["placementBidAdjustments"], [{"placement": "TOP_OF_SEARCH", "percentage": 28}])
+
+
+if __name__ == "__main__":
+    unittest.main(verbosity=2)

diff --git a/_脚本/pipeline.py b/_脚本/pipeline.py
@@ -280,6 +280,29 @@ def actions(F):
             if stg == "up_and_down": add("B", "改竞价策略", camp, "竞价策略", STRATEGY[stg], STRATEGY["down_only"], f"整个活动 ACOS {pct(ac,0)} 超盈亏线，先不让系统往上加价", round(sp, 2))
             g_ = groups.get(cid_)
             if g_ and cut(float(g_["defaultBid"])) < float(g_["defaultBid"]): add("B", "下调默认竞价", camp, "默认竞价", float(g_["defaultBid"]), cut(float(g_["defaultBid"])), f"整个活动 ACOS {pct(ac,0)} 超盈亏线；默认竞价同步降 {pct(CAP,0)}，之后新加的投放不从高价起步", round(sp, 2))
+    # 广告位加价（看每个活动的每个位置）：有广告位报表、又知道现在加了多少，才出。
+    # 加价是在出价上再乘一层：加价 50%＝这个位置的出价 ×1.5。所以调多少按「折到出价上」算，和竞价共用单次调幅。
+    # 下调：这个位置现在有加价，近 14 天点击够数，却 0 单或 ACOS 超盈亏线 → 把加价降下来（降到 0 为止；再往下要靠降竞价，不归这条管）
+    # 上调：这个位置 ACOS 明显好于目标、订单够数，且活动这轮没在降预算 → 把加价提一档
+    PL_NAME = {"placementTop": "搜索顶部", "placementProductPage": "商品页面", "placementRestOfSearch": "其余位置"}
+    has_pl = os.path.exists(f"{RAW}/报表-adPlacementReport-0.pkl")
+    if has_pl:
+        pr = pd.read_pickle(f"{RAW}/报表-adPlacementReport-0.pkl"); pr["日期"] = pd.to_datetime(pr["日期"])
+        for n in NUM: pr[n] = pd.to_numeric(pr[n], errors="coerce").fillna(0)
+        p14 = win(pr, B).groupby(["广告活动", "广告位"])[NUM].sum(); CK_PL, PL_MAX = kj("门槛", "广告位判断点击", 20), float(kj("调幅", "广告位加价上限", 100))
+        for cid_, c_ in camps.items():
+            camp = c_["name"]
+            if c_.get("state") != "enabled" or cid_ not in camp_set: continue                      # 不知道现在加了多少的活动不动
+            cur = {a_["placement"]: float(a_["percentage"]) for a_ in camp_set[cid_].get("placementAdjustments") or []}
+            for key_, nm in PL_NAME.items():
+                if (camp, key_) not in p14.index: continue
+                ck, od, sp, ac = perf(p14.loc[(camp, key_)]); p_ = cur.get(key_, 0.0); eff = lambda q: 1 + q / 100
+                if p_ > 0 and ck >= CK_PL and (od == 0 or (ac and ac > BE)):
+                    new_ = max(0.0, math.ceil((eff(p_) * (1 - CAP) - 1) * 100 - 1e-6))
+                    if new_ < p_: add("B", "下调广告位加价", camp, nm, f"{p_:g}%", f"{new_:g}%", f"近 14 天这个位置 {ck} 次点击 {od} 单，" + (f"ACOS {pct(ac,0)} 超盈亏线 {pct(BE)}" if od else "一单没出") + f"；加价从 {p_:g}% 降到 {new_:g}%，折到这个位置的出价上是降 {pct(1 - eff(new_)/eff(p_),0)}", round(sp, 2))
+                elif od >= OD_UP and ac and ac <= LOW * TARGET and camp not in risk_camps and p_ < PL_MAX:
+                    new_ = min(PL_MAX, float(math.floor((eff(p_) * (1 + UP) - 1) * 100 + 1e-6)))
+                    if new_ > p_: add("B", "上调广告位加价", camp, nm, f"{p_:g}%", f"{new_:g}%", f"近 14 天这个位置 {od} 单，ACOS {pct(ac,0)} 不到目标 {pct(TARGET,0)} 的 {pct(LOW,0)}；加价从 {p_:g}% 提到 {new_:g}%，折到这个位置的出价上是提 {pct(eff(new_)/eff(p_) - 1,0)}", round(sp, 2))
     # 搜索词收割（成对：精确组新建 + 来源组精确否定；任一条被驳回，两条都不再提）
     exact_kw = {k_["keywordText"].lower() for k_ in kws if k_["matchType"] == "exact"}
     for (term_, camp), r in b.groupby(["用户搜索词", "广告活动"])[NUM].sum().iterrows():
@@ -333,7 +356,7 @@ def actions(F):
     if F["逐周"][-1]["退款率"] > RF and ret:
         top, n_ = F["退货原因"][0]; add("E", "Listing 建议稿", "—", f"退货首因：{top}", f"退款率 {pct(F['逐周'][-1]['退款率'])}", "规格表与主图加选码提示，出建议稿走 A/B，不直接替换", f"已退回 {F['已退回件']} 件里 {n_} 件是这个原因", "", "可逆")
     adj = {c_["name"]: (camp_set.get(i_) or {}).get("placementAdjustments") for i_, c_ in camps.items() if (camp_set.get(i_) or {}).get("placementAdjustments")}
-    if adj and not os.path.exists(f"{RAW}/报表-adPlacementReport-0.pkl"):                                 # 没有广告位报表：只标缺数据，不编规则
+    if adj and not has_pl:                                 # 没有广告位报表：只标缺数据，不编规则
         now_ = "；".join(f"{k_}：" + "、".join(f"{ {'placementTop': '搜索顶部', 'placementProductPage': '商品页', 'placementRestOfSearch': '搜索其余位置'}.get(a['placement'], a['placement'])} +{a['percentage']}%" for a in v) for k_, v in adj.items())
         add("E", "广告位待补数据", "、".join(adj), "广告位加价", now_, "补广告位报表后再定", f"{len(adj)} 个活动设了广告位加价，但没有按广告位拆开的花费和订单，看不出加价值不值；不出调整动作", "", "—")
     add("E", "查证", "—", "补货到仓日期", f"按 {R:g} 周估", "供应链回填实际到仓日", "到仓周数决定 A 的力度；改了这个数，动作清单要重算", "", "—")
@@ -351,6 +374,8 @@ def actions(F):
               ("所有动作都停在「待确认」", all(r["状态"] == "待确认" for r in rows)),
               ((f"搜索词报告与活动报告花费相差 <{pct(kj('判定', '报告花费口径允许偏差', 0.01),0)}" if not F["口径核对"]["活动报告缺失_由搜索词报告聚合"] else "口径核对：活动报告缺失，跳过"), abs(F["口径核对"]["活动报告花费"] - F["口径核对"]["搜索词报告花费"]) / F["口径核对"]["活动报告花费"] < kj("判定", "报告花费口径允许偏差", 0.01)),
               ("只生成了人选中的取舍项", all(r["取舍项"] in CHOSEN for r in rows))]
+    plrows = [r for r in rows if "广告位加价" in r["类型"]]; pv = lambda v: 1 + float(str(v).strip("%")) / 100
+    if plrows: checks.append((f"广告位加价单次调整，折到出价上不超过 {pct(BID_LIM,0)}", all(abs(pv(r["新值"]) / pv(r["现值"]) - 1) <= BID_LIM + 1e-9 for r in plrows)))   # 出了广告位动作才有这一条
     json.dump([{"检查": c, "通过": bool(ok)} for c, ok in checks], open(f"{OUT}/验证器.json", "w", encoding="utf-8"), ensure_ascii=False, indent=1)
     bad = [c for c, ok in checks if not ok]; assert not bad, "验证器未通过：" + "；".join(bad)
     cols = ["动作编号", "周检任务", "版本", "取舍项", "类型", "广告活动", "对象", "现值", "新值", "依据", "近14天涉及花费", "可逆", "状态"]

diff --git a/_脚本/ads_api.py b/_脚本/ads_api.py
@@ -25,6 +25,7 @@ REPO = os.path.dirname(os.path.dirname(os.path.abspath(__file__)))
 REGION = {"US": "na", "CA": "na", "MX": "na", "BR": "na", "UK": "eu", "GB": "eu", "DE": "eu", "FR": "eu", "IT": "eu", "ES": "eu", "NL": "eu", "SE": "eu", "PL": "eu", "JP": "fe", "AU": "fe", "SG": "fe"}
 KINDS = {"campaigns": "campaignId", "adGroups": "adGroupId", "targets": "targetId", "ads": "adId"}
 STRATEGY = {"固定竞价": "MANUAL", "动态竞价-只降低": "SALES_DOWN_ONLY", "动态竞价-提高和降低": "SALES_UP_AND_DOWN"}
+PLACEMENT = {"搜索顶部": "TOP_OF_SEARCH", "商品页面": "PRODUCT_PAGE", "其余位置": "REST_OF_SEARCH", "placementTop": "TOP_OF_SEARCH", "placementProductPage": "PRODUCT_PAGE", "placementRestOfSearch": "REST_OF_SEARCH"}
 MATCH = {"精确": "EXACT", "词组": "PHRASE", "广泛": "BROAD", "exact": "EXACT", "phrase": "PHRASE", "broad": "BROAD"}
 
 # 动作类型 → (路由, 改的是什么, 在真实店铺上跑通过没有)。「跑通过」＝真实提交并独立回读成功过；其余是同一套接口、按官方字段起草、没在真实店铺上发过。
@@ -38,6 +39,7 @@ ROUTES = {
     "自动投放组降竞价": ("update/targets", "自动投放某一组的竞价", False), "自动投放组提竞价": ("update/targets", "自动投放某一组的竞价", False),
     "下调预算": ("update/campaigns", "活动的日预算", False), "预算上调": ("update/campaigns", "活动的日预算", False), "改竞价策略": ("update/campaigns", "活动的竞价策略", False),
     "下调默认竞价": ("update/adGroups", "广告组的默认竞价", False),
+    "下调广告位加价": ("update/campaigns", "活动在某个广告位上的加价", False), "上调广告位加价": ("update/campaigns", "活动在某个广告位上的加价", False),
     "补挂广告产品": ("create/ads", "在广告组里新增一条商品广告", False),
     "搜索词收割": ("create/targets", "新增一个精确关键词并出价", False), "竞品词降价单独跑": ("create/targets", "新增一个精确关键词并出价", False),
     "换道否定": ("create/targets", "新增一条否定关键词（精确）", False), "来源组否定": ("create/targets", "新增一条否定关键词（精确）", False), "竞品词否定": ("create/targets", "新增一条否定关键词（精确）", False), "粗规则否词": ("create/targets", "新增一条否定关键词（精确）", False),
@@ -192,6 +194,12 @@ def build(a, f, currency="USD"):
     elif t == "补挂广告产品": body = {"ads": [{**sp, "adGroupId": need("广告组 ID"), "adType": "PRODUCT_AD", "state": "ENABLED", "creative": {"productCreative": {"productCreativeSettings": {"advertisedProduct": {"productIdType": "SKU", "productId": need("SKU")}}}}}]}
     elif t in ("下调预算", "预算上调"): body = {"campaigns": [{"campaignId": need("Campaign ID"), "budgets": [{"budgetType": "MONETARY", "recurrenceTimePeriod": "DAILY", "budgetValue": {"monetaryBudgetValue": {"monetaryBudget": {"currencyCode": currency, "value": num(a["new"])}}}}]}]}
     elif t == "改竞价策略": body = {"campaigns": [{"campaignId": need("Campaign ID"), "optimizations": {"bidSettings": {"bidStrategy": STRATEGY.get(str(a["new"])) or miss.append("认不出的竞价策略") or str(a["new"])}}}]}
+    elif t in ("下调广告位加价", "上调广告位加价"):
+        # 官方没写明改一个位置时其余位置会不会被清掉，所以把这个活动现在所有位置的加价一起带上，只改其中一个
+        allp = dict(f.get("广告位现值") or {}); key = PLACEMENT.get(f.get("广告位") or a["object"]) or miss.append("认不出的广告位") or str(a["object"])
+        if f.get("广告位现值") is None: miss.append("这个活动现在各位置的加价")
+        allp[key] = int(num(str(a["new"]).rstrip("%")) or 0)
+        body = {"campaigns": [{"campaignId": need("Campaign ID"), "optimizations": {"bidSettings": {"bidAdjustments": {"placementBidAdjustments": [{"placement": k, "percentage": int(v)} for k, v in sorted(allp.items())]}}}}]}
     elif t == "下调默认竞价": body = {"adGroups": [{"adGroupId": need("广告组 ID"), "bid": {"defaultBid": num(a["new"])}}]}
     elif route == "update/targets":
         tid = f.get("关键词 ID") or f.get("定位 ID") or miss.append("投放对象 ID") or "<缺 投放对象 ID>"
@@ -218,7 +226,11 @@ def preview(root, status="已确认", types=None):
     for r in c.execute("SELECT * FROM action WHERE status=? ORDER BY no", (status,)):
         a = dict(r)
         if a["type"] not in ROUTES or (types and a["type"] not in types): continue
-        f = MP.enrich(a); route, body, miss = build(a, f)
+        f = MP.enrich(a)
+        if a["type"] in ("下调广告位加价", "上调广告位加价"):                 # 这个活动现在各位置加了多少：从结构表里按活动名取
+            cs = next((c_ for c_ in (jread(f"{root}/_原始拉取/本父体-spCampaign.json") or []) if c_.get("name") == a["campaign"]), None)
+            f["广告位现值"] = {PLACEMENT.get(p_["placement"], p_["placement"]): int(float(p_["percentage"])) for p_ in (cs.get("placementAdjustments") or [])} if cs else None
+        route, body, miss = build(a, f)
         why = "演示数据：活动、广告组、关键词的编号是按格式生成的，真实账号里没有这些对象" if demo else ("缺：" + "、".join(miss) if miss else ("" if a["type"] in PROVEN else "这一类还没在真实店铺上发过，先只预演"))
         out.append({"动作编号": a["no"], "类型": a["type"], "改什么": ROUTES[a["type"]][1], "路由": "POST /adsApi/v1/" + route, "请求体": body, "跑通过": a["type"] in PROVEN, "能发": not why, "为什么不能发": why,
                     "发之前": "先读一次现值，和动作上记的不一样就不发", "发之后": "独立回读，对上了才标「已执行」"})

diff --git a/_脚本/import_my_data.py b/_脚本/import_my_data.py
@@ -137,10 +137,26 @@ for i, x in enumerate(targets, 1): x["targetId"] = f"TG{i:03d}"
 ne_tg = rows_of("否定ASIN.csv", lambda r, c: {"campaignId": c, "expression": [{"type": "ASIN_SAME_AS", "value": str(r["ASIN"]).strip().upper()}]})
 for name, obj in (("本父体-spKeyword.json", kws), ("本父体-spNeKeyword.json", ne), ("基础-spAdProduct-全店.json", ap), ("本父体-spCampaign.json", camp_set), ("本父体-spGroup.json", groups), ("本父体-spTarget.json", targets), ("本父体-spNeTarget.json", ne_tg)):
     json.dump(obj, open(f"{RAW}/{name}", "w", encoding="utf-8"), ensure_ascii=False, indent=1)
+# 3e. 广告位（可选）→ 报表-adPlacementReport-0.pkl：每个活动每天在 搜索顶部／商品页面／其余位置 各花了多少、出了几单。有它才出「上调／下调广告位加价」
+PLACE_KEY = {"搜索顶部": "placementTop", "商品页面": "placementProductPage", "商品页": "placementProductPage", "其余位置": "placementRestOfSearch", "搜索其余位置": "placementRestOfSearch"}
+def place_key(v):
+    v = str(v).strip(); s_ = v.lower()
+    if v in PLACE_KEY: return PLACE_KEY[v]
+    if "business" in s_ or ("off" in s_ and "amazon" in s_): return v
+    return "placementTop" if "top" in s_ else "placementProductPage" if ("detail" in s_ or "product" in s_) else "placementRestOfSearch" if ("rest" in s_ or "other" in s_) else v
+n_pl = 0
+if opt("广告位.csv"):
+    pl = read(opt("广告位.csv")); pl = pl[pl["广告活动"].str.strip().isin(cid)].copy()
+    pcol = lambda *ks: next((h for h in pl.columns if any(k in norm(h) for k in ks)), None)
+    out_pl = pd.DataFrame({"日期": pd.to_datetime(pl["日期"], errors="coerce"), "广告活动": pl["广告活动"].str.strip(), "广告活动ID": pl["广告活动"].str.strip().map(cid), "广告位": pl["广告位"].map(place_key),
+                           "广告花费": pl[pcol("花费", "spend", "cost")].map(money).round(2), "广告曝光量": pl[pcol("曝光", "展示", "impressions")].map(money).astype(int), "广告点击量": pl[pcol("点击量", "点击", "clicks")].map(money).astype(int),
+                           "广告订单量": pl[pcol("订单", "orders")].map(money).astype(int), "广告销售额": pl[pcol("销售额", "sales")].map(money).round(2)}).dropna(subset=["日期"])
+    out_pl.to_pickle(f"{RAW}/报表-adPlacementReport-0.pkl"); n_pl = len(out_pl)
+elif os.path.exists(f"{RAW}/报表-adPlacementReport-0.pkl"): os.remove(f"{RAW}/报表-adPlacementReport-0.pkl")      # 这次没给广告位表：别让上一次的旧表留着
 ret = []
 if opt("退货.csv"):
     for _, r in read(opt("退货.csv")).iterrows(): ret += [{"reasonStr": r["原因"].strip()}] * max(1, int(money(r.get("件数", 1)) or 1))
 json.dump(ret, open(f"{RAW}/FBA退货-本父体.json", "w", encoding="utf-8"), ensure_ascii=False, indent=1)
 open(f"{RAW}/调用记录.jsonl", "w", encoding="utf-8").write(json.dumps({"path": "本地文件：搜索词报告.csv 等，未调任何接口"}) + "\n")
 unused = [h for h in st.columns if h not in m.values()]
-print(f"导入完成 → {DST}\n  搜索词报告 {len(d)} 行｜{d['日期'].min().date()}～{end.date()}（{span} 天）｜广告活动 {len(camps)} 个｜日期无法解析被丢弃 {bad_dates} 行\n  列对应：{m}\n  没用上的列（{len(unused)}）：{unused}\n  周度经营 {len(prof)} 周｜库存 {len(rows)} 个 SKU｜活动预算 {len(bud)}｜关键词竞价 {len(kws)}｜否定词 {len(ne)}｜广告产品 {len(ap)}｜退货 {len(ret)} 件\n  活动设置（竞价策略/广告位加价）{n_set}｜广告组 {len(groups)}｜商品定位 {len(targets)}｜否定ASIN {len(ne_tg)}\n  窗口：前 {P['窗口前']}，近 {P['窗口近']}；复盘日 {P['复盘日']}\n下一步：python3 工作台/app.py --root {DST} --port 8811")
+print(f"导入完成 → {DST}\n  搜索词报告 {len(d)} 行｜{d['日期'].min().date()}～{end.date()}（{span} 天）｜广告活动 {len(camps)} 个｜日期无法解析被丢弃 {bad_dates} 行\n  列对应：{m}\n  没用上的列（{len(unused)}）：{unused}\n  周度经营 {len(prof)} 周｜库存 {len(rows)} 个 SKU｜活动预算 {len(bud)}｜关键词竞价 {len(kws)}｜否定词 {len(ne)}｜广告产品 {len(ap)}｜退货 {len(ret)} 件\n  活动设置（竞价策略/广告位加价）{n_set}｜广告组 {len(groups)}｜商品定位 {len(targets)}｜否定ASIN {len(ne_tg)}｜广告位 {n_pl} 行\n  窗口：前 {P['窗口前']}，近 {P['窗口近']}；复盘日 {P['复盘日']}\n下一步：python3 工作台/app.py --root {DST} --port 8811")

diff --git a/_脚本/fields.py b/_脚本/fields.py
@@ -16,7 +16,9 @@ KW_BID = {"降竞价", "关键词降竞价", "关键词提竞价"}
 TG_BID = {f"{k}{d}竞价" for k in ("ASIN 定位", "类目定位", "自动投放组") for d in ("降", "提")}
 TG_PAUSE = {"暂停 ASIN 定位", "暂停 类目定位", "关闭自动投放组"}
 NEG_KW = {"换道否定", "竞品词否定", "粗规则否词", "来源组否定"}
-ADS_TYPES = {"暂停广告产品", "补挂广告产品", "下调预算", "预算上调", "改竞价策略", "下调默认竞价", "暂停关键词", "搜索词收割", "竞品词降价单独跑", "否定 ASIN"} | KW_BID | TG_BID | TG_PAUSE | NEG_KW
+PL_ADJ = {"下调广告位加价", "上调广告位加价"}
+PL_BULK = {"搜索顶部": "Placement Top", "商品页面": "Placement Product Page", "其余位置": "Placement Rest Of Search"}
+ADS_TYPES = PL_ADJ | {"暂停广告产品", "补挂广告产品", "下调预算", "预算上调", "改竞价策略", "下调默认竞价", "暂停关键词", "搜索词收割", "竞品词降价单独跑", "否定 ASIN"} | KW_BID | TG_BID | TG_PAUSE | NEG_KW
 
 
 class Mapper:
@@ -59,6 +61,8 @@ class Mapper:
             f.update({"实体": "Campaign", "操作": "update", "改什么": "Daily Budget", "现值": f"${money(old)}", "新值": f"${money(new)}"})
         elif t == "改竞价策略":
             f.update({"实体": "Campaign", "操作": "update", "改什么": "Bidding Strategy", "现值": old, "新值": new})
+        elif t in PL_ADJ:
+            f.update({"实体": "Bidding Adjustment", "操作": "update", "改什么": "Percentage", "广告位": obj, "现值": old, "新值": new})
         elif t == "下调默认竞价":
             f.update({"实体": "Ad Group", "操作": "update", "改什么": "Ad Group Default Bid", "现值": f"${money(old)}", "新值": f"${money(new)}"})
         elif t in KW_BID:
@@ -89,16 +93,17 @@ class Mapper:
 
 # 导出成广告后台批量上传表的列（Ads API 通道）。一行一个实体；没用到的列留空，和后台模板一样
 BULK_COLS = ["Product", "Entity", "Operation", "Campaign ID", "Ad Group ID", "Keyword ID", "Product Targeting ID", "Campaign Name (Informational only)", "Ad Group Name (Informational only)",
-             "SKU", "ASIN (Informational only)", "Keyword Text", "Match Type", "Product Targeting Expression", "State", "Daily Budget", "Ad Group Default Bid", "Bid", "Bidding Strategy", "动作编号", "依据"]
+             "SKU", "ASIN (Informational only)", "Keyword Text", "Match Type", "Product Targeting Expression", "State", "Daily Budget", "Ad Group Default Bid", "Bid", "Bidding Strategy", "Placement", "Percentage", "动作编号", "依据"]
 _MT = {"精确": "exact", "词组": "phrase", "广泛": "broad", "精确否定": "negativeExact"}
 
 
 def bulk_row(a, f):
     ent, what, new = f.get("实体", ""), f.get("改什么", ""), f.get("新值", "")
     val = lambda w: new.lstrip("$") if what == w else ""
-    camp_lvl = ent == "Campaign"
+    camp_lvl = ent in ("Campaign", "Bidding Adjustment")
     # State 列：只有改状态、或新建实体时才填；只改竞价/预算的行留空，免得上传时顺手改了状态
     st = new if what == "State" else ("enabled" if f.get("操作") == "create" else "")
     return ["Sponsored Products", ent, f.get("操作", ""), f.get("Campaign ID", ""), "" if camp_lvl else f.get("广告组 ID", ""), f.get("关键词 ID", ""), f.get("定位 ID", ""),
             f.get("Campaign", ""), "" if camp_lvl else f.get("广告组", ""), f.get("SKU", ""), f.get("ASIN", ""), f.get("关键词", ""), _MT.get(f.get("匹配", ""), ""), f.get("定位", ""),
-            st, val("Daily Budget"), val("Ad Group Default Bid"), val("Bid"), STRATEGY_BULK.get(new, "") if what == "Bidding Strategy" else "", a["no"], a["why"]]
+            st, val("Daily Budget"), val("Ad Group Default Bid"), val("Bid"), STRATEGY_BULK.get(new, "") if what == "Bidding Strategy" else "",
+            PL_BULK.get(f.get("广告位", ""), "") if what == "Percentage" else "", str(new).rstrip("%") if what == "Percentage" else "", a["no"], a["why"]]

diff --git a/_脚本/handbook_steps.py b/_脚本/handbook_steps.py
@@ -100,7 +100,9 @@ def build(step, img, say, do, see, stuck, p):
 <tr><td>库存.csv</td><td>手填，每行一个 SKU：可售、上周销量（FBA 库存页、业务报告）</td><td>必需</td></tr>
 <tr><td>产品.json、参数.json、分组规则.json</td><td>第 11、12 步做</td><td>必需</td></tr>
 <tr><td>活动.csv／关键词竞价.csv／否定词.csv／广告产品.csv／退货.csv</td><td>广告后台批量操作导出、广告产品报告、退货报告；没有就少几类动作</td><td>可选</td></tr>
-<tr><td>广告组.csv／商品定位.csv／否定ASIN.csv，以及 活动.csv 里的竞价策略、广告位加价列</td><td>广告后台 → 批量操作 → 下载批量表；没有就出不了「改竞价策略」「下调默认竞价」「ASIN／类目定位调价」「否定 ASIN」，「广告活动」页里对应那一块会写「没给这张表」</td><td>可选</td></tr></table>""",
+<tr><td>广告组.csv／商品定位.csv／否定ASIN.csv，以及 活动.csv 里的竞价策略、广告位加价列</td><td>广告后台 → 批量操作 → 下载批量表；没有就出不了「改竞价策略」「下调默认竞价」「ASIN／类目定位调价」「否定 ASIN」，「广告活动」页里对应那一块会写「没给这张表」</td><td>可选</td></tr>
+<tr><td>广告位.csv</td><td>广告后台 → 报告 → 商品推广／广告位／按天；没有就出不了「下调／上调广告位加价」，只提醒「广告位待补数据」</td><td>可选</td></tr>
+<tr><td colspan="3">广告侧的这些表（搜索词报告、广告位、活动、广告组、关键词竞价、否定词、广告产品、商品定位、否定 ASIN）也可以不手工导，直接从广告接口拉：见 数据格式.md 开头，或页面「广告接口 → 取数」。周度经营、库存、产品、参数、分组规则仍然手填。</td></tr></table>""",
       say("看一下 我的数据/ 里的文件：每个多少行、有哪些列；搜索词报告的时间从哪天到哪天、涉及几个广告活动。先别分析，也别改文件。"),
       see("行数、列名、时间范围。<b>先确认周期完整</b>：至少 3 周，建议 4 周以上；最近 3 天归因没满，订单会偏少。"),
       stuck("近 4 周点击不到 300 次：换一个量大的产品。搜索词报告只有汇总没有按天：重新导一份「每日」的。")),

diff --git a/tests/test_ads_api.py b/tests/test_ads_api.py
@@ -70,8 +70,17 @@ class 动作翻成请求(unittest.TestCase):
 
     def test_每一类动作都有路由_都翻得出来(self):
         for t in A.ROUTES:
-            route, body, miss = self.one(t, new=("动态竞价-只降低" if t == "改竞价策略" else "1.05")); self.assertEqual(route, A.ROUTES[t][0], t); self.assertEqual(miss, [], t)
+            pl = "广告位加价" in t; f = {**self.F, "广告位": "搜索顶部", "广告位现值": {"TOP_OF_SEARCH": 50, "PRODUCT_PAGE": 20}} if pl else None
+            route, body, miss = self.one(t, new=("动态竞价-只降低" if t == "改竞价策略" else "28%" if pl else "1.05"), f=f); self.assertEqual(route, A.ROUTES[t][0], t); self.assertEqual(miss, [], t)
             self.assertEqual(len(next(iter(body.values()))), 1, t)
+
+    def test_改广告位加价_只改一个位置_其余位置原样带上(self):
+        f = {**self.F, "广告位": "搜索顶部", "广告位现值": {"TOP_OF_SEARCH": 50, "PRODUCT_PAGE": 20}}
+        _, body, miss = A.build({"type": "下调广告位加价", "old": "50%", "new": "28%", "object": "搜索顶部"}, f); self.assertEqual(miss, [])
+        self.assertEqual(body["campaigns"][0]["optimizations"]["bidSettings"]["bidAdjustments"]["placementBidAdjustments"], [{"placement": "PRODUCT_PAGE", "percentage": 20}, {"placement": "TOP_OF_SEARCH", "percentage": 28}])
+        _, _, miss = A.build({"type": "下调广告位加价", "old": "50%", "new": "28%", "object": "搜索顶部"}, {**self.F, "广告位": "搜索顶部", "广告位现值": None})
+        self.assertIn("这个活动现在各位置的加价", miss)                       # 不知道其余位置现在加了多少，就不发
+        self.assertNotIn("下调广告位加价", A.PROVEN)
 
     def test_几类典型动作的请求长什么样(self):
         self.assertEqual(self.one("暂停广告产品")[1], {"ads": [{"adId": "AD", "state": "PAUSED"}]})

diff --git a/工作台/app.py b/工作台/app.py
@@ -293,7 +293,7 @@ class H(BaseHTTPRequestHandler):
             d = ADS.check(ROOT); log(c, who, "连广告接口", d.get("站点", ""), ("连通：" if d["ok"] else "没连通：") + "；".join(s["说明"] for s in d["步骤"])[:300]); c.commit(); return self.send(200, d)
         if u.path == "/api/ads/pull":
             if who not in CAN["连接口"]: return deny("连接口")
-            if body.get("confirm") is not True: return self.send(400, {"error": "这一步会花紫鸟积分（建 3 份报表、每分钟问一轮进度、再读结构），要人点了确认才拉"})
+            if body.get("confirm") is not True: return self.send(400, {"error": "这一步会花紫鸟积分（建 4 份报表、每分钟问一轮进度、再读结构），要人点了确认才拉"})
             pc = pull_cfg()
             if not pc["数据目录"]: return self.send(400, {"error": "还没说数据写到哪：在 agent/.env.local 里写 ADS_DATA_DIR=仓库外面的一个目录"})
             if PULL["on"]: return self.send(400, {"error": "上一次还在拉"})
